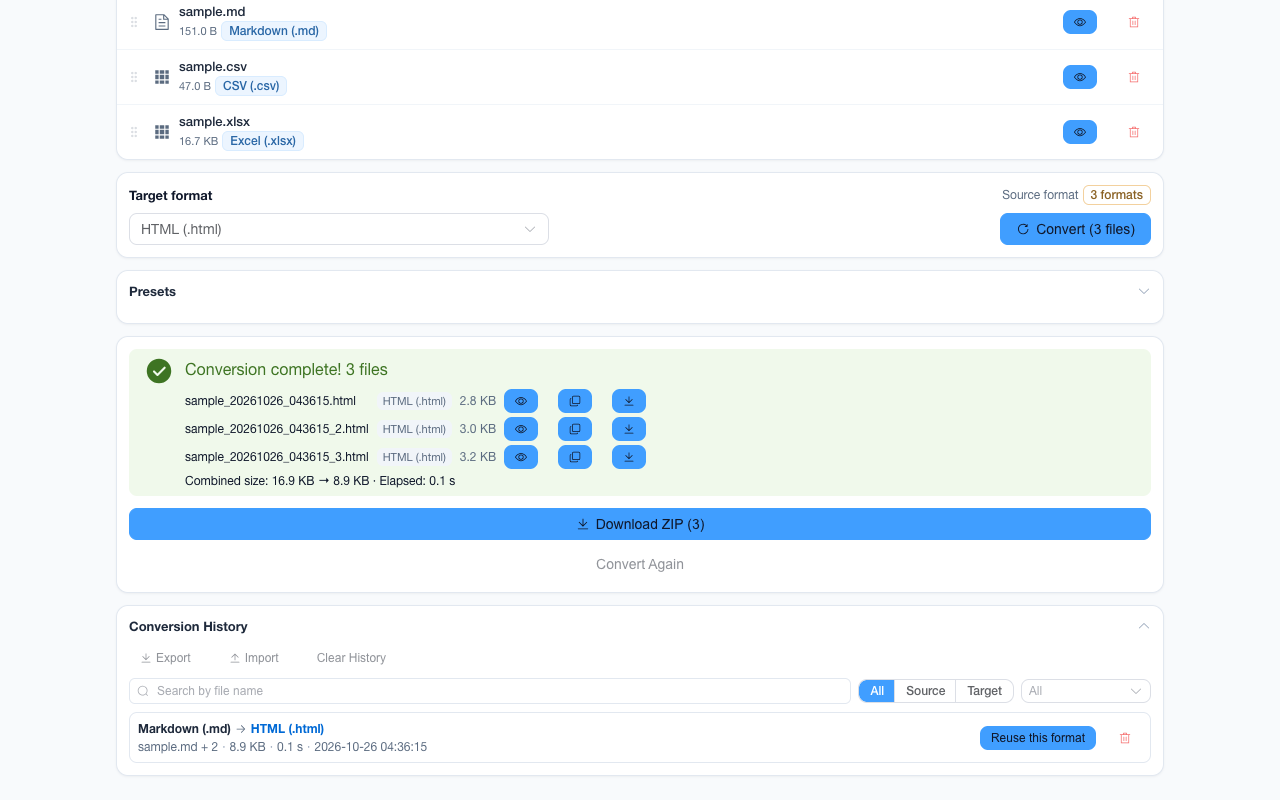
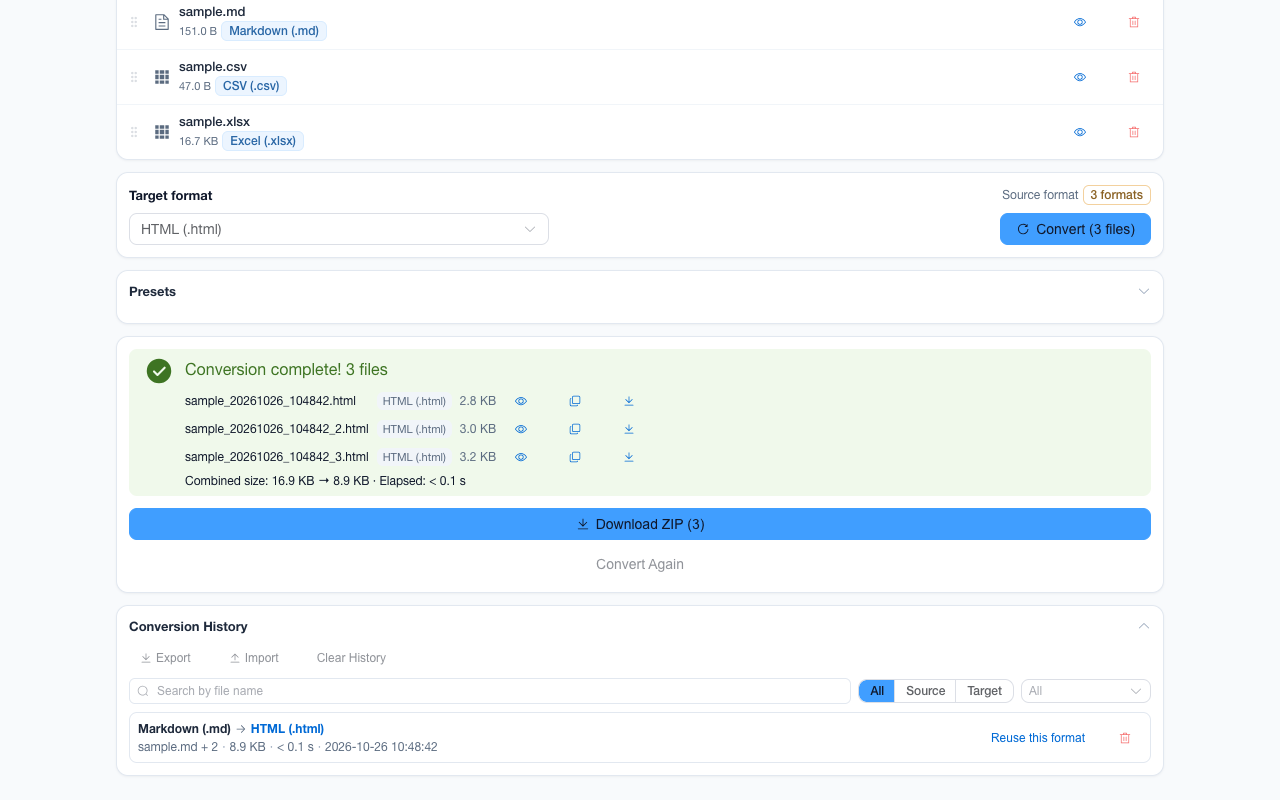
feat(ui): 外链与行内动作改走兄弟扩展的强调色写法，分段选中项补上可读字色
- 「关于」抽屉的十条对外链接照 account-password-helper 的链接行写法改成主题强调色、去掉常驻下划线；为此新增 --fat-link-ink：晴空蓝取已压深的 primary-ink（5.27:1）、森林绿取主色压黑 60%（6.19:1）、活力橙与玫瑰红取各自按下态的深色（5.18 / 6.29:1）、紫与石板直接用主色（5.70 / 7.58:1），深色模式回到浅色主色（7.39–9.73:1）
- 全局实心主按钮规则排除 text / link 变体（兄弟仓库同一条规则的理由：同色压同色会看不见），历史行的「复用此格式」因此回到文字按钮，字色取 --fat-link-ink、悬停取行底色
- 历史筛选与预览视图的分段选中项不再拿白字压浅色主色（晴空蓝 2.78:1、森林绿 2.54:1、活力橙 3.56:1）：Element Plus 的三个 checked 旋钮声明在 .el-radio-button 自身，:root 映射被遮蔽，故用 .el-radio-group .el-radio-button 抬特异性改走主按钮的填充 / 文字令牌
- 抽屉标题与首行之间 52px 的空带照兄弟仓库收到 24px
- e2e 的 About 段注释同步改成 --fat-link-ink 口径；断言总数不变，全套 489/489 通过，其中外链字色在 6 主题 × 明暗 12 组实测最差 5.18:1
- 商店与 README 素材按新界面重拍 24 张（演示 GIF 的取景不含历史卡与抽屉，未重录）；实测 75 文件 / 3.88 MB 不变

Changelog-En: Paint the About drawer's outbound links and the history row's reuse action in the theme accent the way the sibling extension does — a new --fat-link-ink keeps both legible in all six themes — stop the global fill rule from turning text buttons into solid chips, and give the selected radio segment a readable label instead of white on a light primary.

diff --git a/assets/styles/global.css b/assets/styles/global.css
@@ -128,23 +128,45 @@ body {
 
 /* The filled-button scale lives in tokens.css (--fat-btn-solid*), because which shade a
    state takes depends on the label colour, and that differs per theme and mode. Keeping the
-   three states here as plain token references means no mode-specific selector is needed. */
-.el-button--primary {
+   three states here as plain token references means no mode-specific selector is needed.
+   The `is-text` / `is-link` variants are excluded: a text button's label *is* the action, so
+   painting the same accent behind it would leave accent-on-accent. The siblings' stylesheet
+   excludes them for exactly that reason, and the history row's "reuse" action is a primary
+   text button — its ink is handled by the rule below instead. */
+.el-button--primary:not(.is-text, .is-link) {
   background: var(--fat-btn-solid) !important;
   border-color: var(--fat-btn-solid) !important;
   color: var(--fat-on-btn-solid) !important;
 }
 
-.el-button--primary:not(.is-disabled):hover {
+.el-button--primary:not(.is-text, .is-link, .is-disabled):hover {
   background: var(--fat-btn-solid-hover) !important;
   border-color: var(--fat-btn-solid-hover) !important;
   color: var(--fat-on-btn-solid) !important;
 }
 
-.el-button--primary:not(.is-disabled):active {
+.el-button--primary:not(.is-text, .is-link, .is-disabled):active {
   background: var(--fat-btn-solid-active) !important;
   border-color: var(--fat-btn-solid-active) !important;
   color: var(--fat-on-btn-solid) !important;
+}
+
+/* Row actions keep the accent as ink on the card, so they take --fat-link-ink rather than the
+   fill: the same token the About drawer's outbound labels use, and the one that certifies the
+   accent as small text in every theme. The hover wash is the row's own background token so the
+   action reads as part of the list rather than as a floating chip. */
+.el-button--primary.is-text:not(.is-disabled),
+.el-button--primary.is-link:not(.is-disabled) {
+  background: transparent !important;
+  border-color: transparent !important;
+  color: var(--fat-link-ink) !important;
+}
+
+.el-button--primary.is-text:not(.is-disabled):hover,
+.el-button--primary.is-link:not(.is-disabled):hover {
+  background: var(--fat-surface-hover) !important;
+  border-color: transparent !important;
+  color: var(--fat-link-ink) !important;
 }
 
 .el-button--default {
@@ -223,6 +245,17 @@ body {
   outline-color: var(--fat-focus-ring) !important;
 }
 
+/* The selected segment wears the same filled scale as a primary button. Element Plus paints it
+   with --el-color-primary plus a white label — the one pairing this palette rejects everywhere
+   else (2.54:1 on green, 2.78:1 on blue, 3.56:1 on orange). Its three knobs are declared on
+   `.el-radio-button` itself, so a `:root` mapping is shadowed and this descendant selector is
+   what actually reaches them regardless of stylesheet order. The focus ring is separate (above). */
+.el-radio-group .el-radio-button {
+  --el-radio-button-checked-bg-color: var(--fat-btn-solid);
+  --el-radio-button-checked-text-color: var(--fat-on-btn-solid);
+  --el-radio-button-checked-border-color: var(--fat-btn-solid);
+}
+
 /* Dark mode button enhancements (primary is handled by the token scale above) */
 :root[data-mode='dark'] .el-button--default {
   border-color: var(--fat-border) !important;
@@ -257,14 +290,25 @@ body {
    One selector is enough because EP builds the class as `ns.m(type)` with `type` defaulting to
    `""`: an untyped `<el-button>` carries no `el-button--default`, and the `text` / `link` /
    `plain` props add `is-text` / `is-link` / `is-plain` beside the type modifier rather than
-   replacing it. So `--primary` covers every solid button in the workbench, chip-shaped variants
-   included — which is how those variants already look when enabled, under the rules above.
+   replacing it. So `--primary` covers every solid button in the workbench; the enabled text /
+   link variants are excluded from the fill above, but this disabled rule still reaches them,
+   which is the state the "text button mid-conversion" measurement above is about.
    The `.el-button--default` and `.el-button--text` selectors that remain in this file match no
    element today; they are pre-existing and left alone here. */
 :root .el-button--primary.is-disabled:not(.is-loading) {
   background: var(--fat-surface-2) !important;
   border-color: var(--fat-border) !important;
   color: var(--fat-text-placeholder) !important;
+}
+
+/* The About drawer's title-to-content band. Element Plus writes `margin-bottom: 32px` on the
+   header while the body carries its own 20px padding, so the first row of a 400px-wide panel
+   starts 52px under a title that no longer looks attached to anything. The siblings' stylesheet
+   trims the same 32px to 4px for the same reason; the drawer's own section spacing
+   (`--fat-space-md` on `.about`) then does the separating. The descendant combinator lifts this
+   to (0,2,0) so it does not depend on which chunk lands last. */
+.el-drawer .el-drawer__header {
+  margin-bottom: 4px;
 }
 
 /* Large-batch confirmation dialog. The markup is a VNode built in useConversion.ts and the

diff --git a/assets/theme/tokens.css b/assets/theme/tokens.css
@@ -19,6 +19,17 @@
      --fat-primary: only text and data graphics move here. */
   --fat-primary-ink: var(--fat-primary);
 
+  /* The accent for link text. The About drawer's outbound rows are the only links this UI paints
+     on a card, and the siblings set their labels in the theme accent rather than body ink.
+     That works only where the accent clears AA as 13px text on a card: purple (#7c3aed, 5.70:1),
+     rose's active shade (#be123c, 6.29:1), slate (#475569, 7.58:1) and blue's already-deepened
+     --fat-primary-ink (5.27:1) do. Green and orange have no readable step in their light
+     primaries (2.54 / 3.56), so green takes a 60%-toward-black mix (6.19:1) and orange takes its
+     active #c2410c (5.18:1). Dark mode restores the light tint, which measures 7.39–9.73:1
+     against the dark card. The link is therefore always colour-identifiable and always legible,
+     which is why the label no longer needs a permanent underline as its affordance. */
+  --fat-link-ink: var(--fat-primary);
+
   /* Keyboard focus ring colour. Declared once per mode and referenced by every
      focus rule, so light and dark differ without a `!important` override war:
      the previous `:root[data-mode='dark'] :focus-visible { outline-color }` tint
@@ -355,6 +366,7 @@
    start, the capsules 2.98:1 at its far end. */
 :root[data-theme='blue'] {
   --fat-primary-ink: color-mix(in srgb, #0072e8 92%, black);
+  --fat-link-ink: var(--fat-primary-ink);
   --fat-on-primary: var(--fat-text-primary);
   --fat-topbar-ink: #fff;
   --fat-focus-ring: var(--fat-primary-ink);
@@ -379,6 +391,7 @@
   --fat-on-primary: var(--fat-text-primary);
   --fat-focus-ring: var(--fat-primary-active);
   --fat-btn-solid-step: #fff;
+  --fat-link-ink: color-mix(in srgb, var(--fat-primary) 60%, black);
   --fat-surface: #f0fdf4;
   --fat-surface-2: #f7fdf9;
   --fat-surface-line: #dcfce7;
@@ -432,6 +445,7 @@
      and, like light green, the ink label means the button lightens on interaction. */
   --fat-on-primary: var(--fat-text-primary);
   --fat-btn-solid-step: #fff;
+  --fat-link-ink: var(--fat-primary-active);
   --fat-surface: #fffbeb;
   --fat-surface-2: #fffdf7;
   --fat-surface-line: #fef3c7;
@@ -458,6 +472,7 @@
   --fat-topbar-bg-end: color-mix(in srgb, var(--fat-primary) 84%, black);
   --fat-topbar-film: rgb(0 0 0 / 14%);
   --fat-topbar-film-hover: rgb(0 0 0 / 22%);
+  --fat-link-ink: var(--fat-primary-active);
   --fat-surface: #fff1f2;
   --fat-surface-2: #fff8f9;
   --fat-surface-line: #ffe4e6;
@@ -530,6 +545,11 @@
      6.15–9.41:1 against the card, while --fat-primary-hover reaches 8.37–12.12:1
      — comfortably past the 3:1 WCAG 1.4.11 non-text minimum in all 6 themes. */
   --fat-focus-ring: var(--fat-primary-hover);
+
+  /* Link text reverses the light-mode recipe: the theme accent itself is now the light end
+     (7.39–9.73:1 on this card), so green's light-mode mix and blue's strong ink are both undone
+     by this later, same-specificity declaration. */
+  --fat-link-ink: var(--fat-primary);
   --fat-topbar-bg: var(--fat-primary-active);
 
   /* Every dark theme paints white ink on the bar, so the skin takes the white-ink recipe:

diff --git a/components/options/AboutDrawer.vue b/components/options/AboutDrawer.vue
@@ -241,11 +241,12 @@ const facts = computed(() => [
   outline-offset: 2px;
 }
 
-/* Underline rather than the accent colour: the green and orange themes measure 2.54:1 and 3.56:1
-   as small text on a card, so the affordance cannot be colour-only and must not be the hue. */
+/* Accent ink rather than body ink and no permanent underline: this is the siblings' link-row
+   treatment, and --fat-link-ink is the token that certifies the accent as 13px text on the card
+   in all six themes and both modes (blue's 2.78:1 primary is deliberately not used here). The
+   row's hover wash and the trailing arrow still carry the "this leaves the page" affordance. */
 .about-link-label {
-  text-decoration: underline;
-  text-underline-offset: 2px;
+  color: var(--fat-link-ink);
 }
 
 .about-link-host {

diff --git a/CHANGELOG.en.md b/CHANGELOG.en.md
@@ -22,6 +22,7 @@ Release PR is not by itself a release.
 - **ui**: The default theme is Element Plus's sky blue (#409eff) instead of the old dark blue, matching the author's other two extensions. Fills, borders and backgrounds keep that blue; accent text and data graphics (link-like labels, file paths, the trend line and its head) move to a deeper `--fat-primary-ink` that clears 4.5:1 on white and on the theme's own tints. The topbar wordmark carries the sibling extensions' white-on-sky pairing (2.78:1 on #409eff, recorded as a known limitation in README / CONTRIBUTING / the store sheet), the light-mode focus ring takes the same deep blue, and dark mode carries the light half of the palette (#66b3ff) with the topbar's pressed shade deepened to #1d6fd6, where white still reads at 4.89:1
 - **ui**: The extension icon is repainted in the same flat sky blue — the document-and-badge geometry is unchanged, the gradient is gone — and the store and README screenshots, promo tiles and demo GIFs are re-captured for the new palette
 - **ui**: The top bar takes the same skin as the author's other two extensions — a 135° primary wash, with the version chip and both capsules (About, Preferences) turned into frosted glass (hover thickens the film and its rim; no displacement, per this project's flat-design rule). The sky-blue bar carries white text throughout, the chip and capsules sitting on a black film (3.68:1, 2.98:1 at the wash's far end); green and orange keep dark ink over a white film, and purple, rose, slate and every dark theme use white over a black film with a deeper wash
+- **ui**: The About drawer's ten outbound rows now read as accent-coloured text without a permanent underline, the way the sibling extensions paint them. That needed a new `--fat-link-ink`: sky blue takes the already-deepened #0069d5, green takes its primary mixed 60% toward black (#0a6f4d), orange and rose take their pressed shades, purple and slate take the primary itself, and dark mode returns to the light tint — measured worst 5.18:1 across the 12 theme × mode combinations, still pinned per sample by the About section's contrast assertion. The history row's "reuse" action is no longer painted as a solid chip by the global fill rule and goes back to being a text button (same accent ink, row-coloured hover), matching how the siblings exclude the `text` / `link` variants from the fill; the selected segment of the history filter and of the preview view no longer sets white on a light primary (2.78:1 sky blue, 2.54:1 green, 3.56:1 orange) and takes the primary button's fill/label tokens instead; the 52px band between the drawer title and its first row is trimmed to 24px, as in the sibling extensions
 
 ### Fixed
 

diff --git a/CHANGELOG.md b/CHANGELOG.md
@@ -21,6 +21,7 @@ manifest 的版本号。一次发布 = 在 `main` 上打 `vX.Y.Z` 标签，由 `
 - **ui**：默认主题色由深蓝换成 Element Plus 的晴空蓝 `#409eff`，与作者的另外两个扩展一致。填充、描边与背景仍用这支蓝；需要「读」的强调色（链接式文字、文件路径、趋势线与图表头部）改用更深的 `--fat-primary-ink`，浅色下对白底与主题自有浅色底都在 4.5:1 以上。顶栏品牌字按另外两个扩展的同款白字配色呈现（对 `#409eff` 为 2.78:1，作为已知限制写进 README / CONTRIBUTING / 商店手册），浅色模式的焦点环改用同一支深蓝；深色模式取这片蓝的浅色一档（`#66b3ff`），顶栏的按下态压到 `#1d6fd6`，白字在顶栏上仍有 4.89:1
 - **ui**：插件图标改用同一片晴空蓝的平铺底色，文档与转换徽章的几何不变、原来的渐变去掉；商店与 README 的截图、推广图与演示 GIF 随新配色重拍
 - **ui**：顶栏换成与另外两个扩展同一套皮肤——135° 主色渐变，版本号芯片与「关于 / 偏好设置」两枚按钮改成半透明玻璃胶囊（悬停加厚薄膜与描边，按本项目的扁平约定不做位移）。晴空蓝顶栏的字与胶囊统一为白色，芯片与胶囊落在黑色薄膜上（3.68:1，渐变远端 2.98:1）；森林绿与活力橙仍用深墨字配白色薄膜，紫、玫瑰、石板与全部深色主题用白字配黑色薄膜并向更深处渐变
+- **ui**：「关于」抽屉的十条对外链接照另外两个扩展的写法改成强调色文字、去掉常驻下划线，为此新增 `--fat-link-ink`：晴空蓝取已压深的 `#0069d5`、森林绿取主色压黑 60% 的 `#0a6f4d`、活力橙与玫瑰红取各自按下态的深色，紫与石板直接用主色，深色模式回到浅色主色——12 组配置实测最差 5.18:1，仍由 About 段那条逐项断言钉住。历史记录行的「复用此格式」不再被全局实心规则刷成色块，回到文字按钮（同一支强调色 + 行底色悬停），与另外两个扩展对 `text` / `link` 变体的处理一致；历史筛选与预览视图的分段选中项也不再拿白字压浅色主色（晴空蓝 2.78:1、森林绿 2.54:1、活力橙 3.56:1），改走主按钮那套填充 / 文字令牌；抽屉标题与首行之间那道 52px 的空带也照另外两个扩展的做法收到 24px
 
 ### 修复
 
